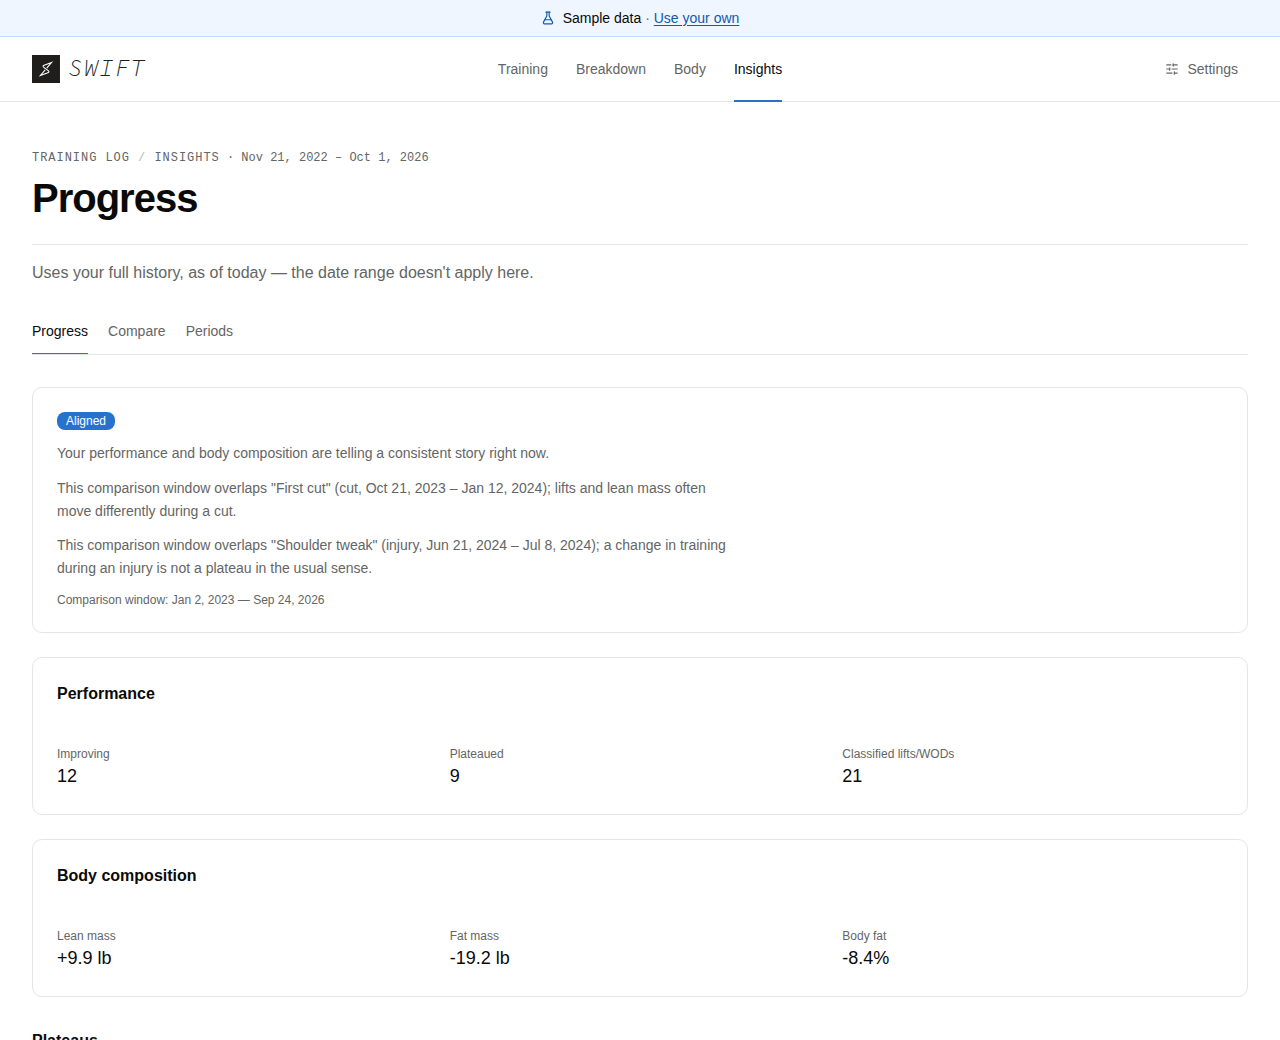
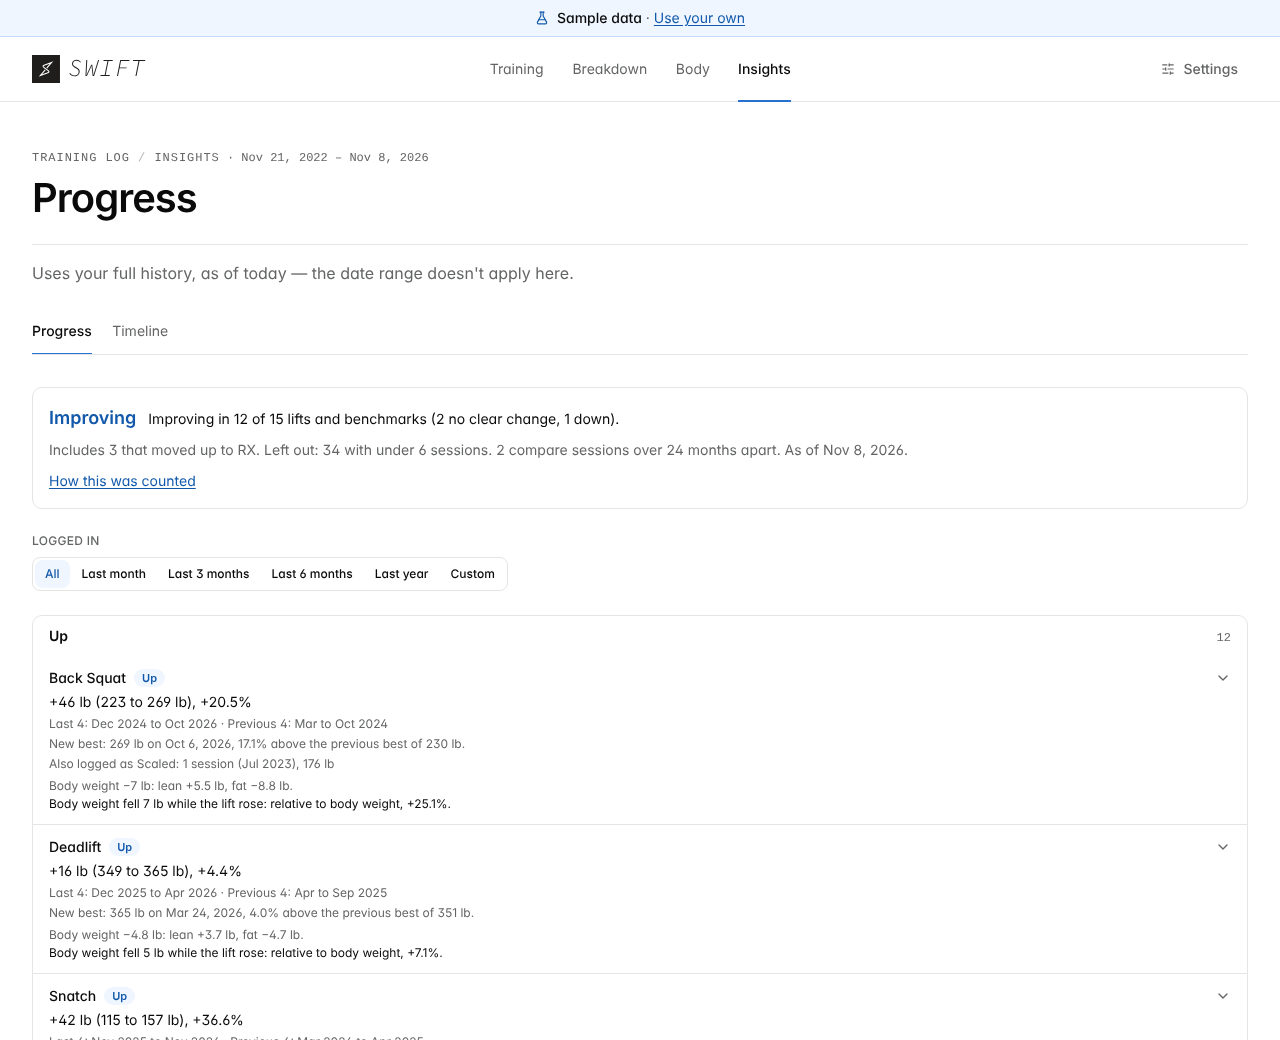
Remove dead code and stale wording left by the Insights overhaul
Fixes the Start over copy that still named periods and experiments, retakes the README Progress screenshots, and deletes code nothing calls any more: the unused table, skeleton and separator primitives, packLanes, bucketRange, NO_NOISE_BANDS, isMeaningfulChange, describeWithinNoise, formatPercent, formatSignedDelta and the BackupFile type, with their tests. Updates comments that still referred to the removed views.

Claude-Session: https://claude.ai/code/session_01QBi3wFwzQu6UaHexELoUPj

diff --git a/src/lib/analytics/bodyCompNoise.ts b/src/lib/analytics/bodyCompNoise.ts
@@ -217,44 +217,3 @@ export function getBodyCompNoiseBands(scans: InBodyRow[], options: NoiseBandOpti
   const entries = BODY_COMP_METRICS.map((m) => [m, getBodyCompNoiseBand(scans, m, options)] as const);
   return Object.fromEntries(entries) as BodyCompNoiseBands;
 }
-
-/** Bands of zero: every non-zero delta is meaningful. Reproduces the pre-noise-band sign-only behaviour exactly. */
-export const NO_NOISE_BANDS: BodyCompNoiseBands = Object.fromEntries(
-  BODY_COMP_METRICS.map((m) => [m, { status: "ok", band: 0, method: "default", sampleSize: 0 } satisfies BodyCompNoiseBand])
-) as BodyCompNoiseBands;
-
-/** A change is meaningful only when its magnitude exceeds the band. */
-export function isMeaningfulChange(delta: number, band: number): boolean {
-  return Math.abs(delta) > band;
-}
-
-const WITHIN_NOISE_LABEL = { leanMass: "lean mass", fatMass: "fat mass", bodyFatPct: "body fat" } as const;
-
-/**
- * The plain-language line for a trend whose changes sit inside the noise
- * band, or null when none do (including a trend computed without bands).
- * Says what is within normal variation and stops — it never names a direction
- * for a change it just said isn't one.
- */
-export function describeWithinNoise(trend: {
-  withinNoise?: { leanMass: boolean; fatMass: boolean; bodyFatPct: boolean };
-  leanMassDelta: number | null;
-  fatMassDelta: number | null;
-  bodyFatPctDelta: number | null;
-}): string | null {
-  const w = trend.withinNoise;
-  if (!w) return null;
-  const measured = [
-    ["leanMass", trend.leanMassDelta],
-    ["fatMass", trend.fatMassDelta],
-    ["bodyFatPct", trend.bodyFatPctDelta],
-  ] as const;
-  const present = measured.filter(([, delta]) => delta !== null).map(([k]) => k);
-  const within = present.filter((k) => w[k]);
-  if (within.length === 0) return null;
-  const names = within.map((k) => WITHIN_NOISE_LABEL[k]);
-  const list = names.length === 1 ? names[0]! : `${names.slice(0, -1).join(", ")} and ${names[names.length - 1]}`;
-  const verb = within.length === 1 ? "change is" : "changes are";
-  const cap = list.charAt(0).toUpperCase() + list.slice(1);
-  return `${cap} ${verb} within normal scan variation.`;
-}

diff --git a/src/lib/analytics/granularity.ts b/src/lib/analytics/granularity.ts
@@ -2,7 +2,7 @@ import dayjs, { type Dayjs } from "dayjs";
 import customParseFormat from "dayjs/plugin/customParseFormat";
 import type { DateRange } from "./dateRange";
 
-// bucketRange parses strictly; the plugin is otherwise only loaded by whichever module happens to import first.
+// Keeps strict parsing available whichever module happens to import first.
 dayjs.extend(customParseFormat);
 
 export type Granularity = "daily" | "weekly" | "monthly" | "quarterly" | "yearly";
@@ -67,47 +67,6 @@ export function bucketKey(date: Dayjs, granularity: Granularity): string {
     case "yearly":
       return date.format("YYYY");
   }
-}
-
-/**
- * The inclusive calendar span a bucket key covers, "YYYY-MM-DD" both ends —
- * the inverse of `bucketKey`. Lets a selection on a bucketed chart become a
- * date window. Null for a key that isn't one of this granularity's.
- */
-export function bucketRange(key: string, granularity: Granularity): { start: string; end: string } | null {
-  const fmt = "YYYY-MM-DD";
-  let start: Dayjs;
-  let unit: "day" | "week" | "month" | "year";
-  let months = 1;
-  switch (granularity) {
-    case "daily":
-      start = dayjs(key, fmt, true);
-      unit = "day";
-      break;
-    case "weekly":
-      start = dayjs(key, fmt, true);
-      unit = "week";
-      break;
-    case "monthly":
-      start = dayjs(`${key}-01`, fmt, true);
-      unit = "month";
-      break;
-    case "quarterly": {
-      const m = /^(\d{4})-Q([1-4])$/.exec(key);
-      if (!m) return null;
-      start = dayjs(`${m[1]}-${String((Number(m[2]) - 1) * 3 + 1).padStart(2, "0")}-01`, fmt, true);
-      unit = "month";
-      months = 3;
-      break;
-    }
-    case "yearly":
-      start = dayjs(`${key}-01-01`, fmt, true);
-      unit = "year";
-      break;
-  }
-  if (!start.isValid()) return null;
-  const end = unit === "month" ? start.add(months, "month").subtract(1, "day") : start.add(1, unit).subtract(1, "day");
-  return { start: start.format(fmt), end: end.format(fmt) };
 }
 
 /** Human-readable axis/tooltip label for a bucket key produced by `bucketKey`. */

diff --git a/tests/bodyCompNoise.test.ts b/tests/bodyCompNoise.test.ts
@@ -1,9 +1,7 @@
 import { describe, expect, it } from "vitest";
 import dayjs from "dayjs";
 import {
-  describeWithinNoise,
   getBodyCompNoiseBand,
-  isMeaningfulChange,
 } from "@/lib/analytics/bodyCompNoise";
 import { DEFAULT_NOISE_BAND, NOISE_BAND_FLOOR_FRACTION } from "@/lib/analytics/insightConfig";
 import type { InBodyRow } from "@/types/inbody";
@@ -153,36 +151,5 @@ describe("lean mass field choice", () => {
       NOISE_BAND_FLOOR_FRACTION * DEFAULT_NOISE_BAND.leanMass,
       5
     );
-  });
-});
-
-describe("isMeaningfulChange", () => {
-  it("requires the magnitude to exceed the band, in either direction", () => {
-    expect(isMeaningfulChange(2, 3)).toBe(false);
-    expect(isMeaningfulChange(-2, 3)).toBe(false);
-    expect(isMeaningfulChange(3, 3)).toBe(false);
-    expect(isMeaningfulChange(3.1, 3)).toBe(true);
-    expect(isMeaningfulChange(-3.1, 3)).toBe(true);
-  });
-});
-
-describe("describeWithinNoise", () => {
-  const base = { leanMassDelta: 1, fatMassDelta: -1, bodyFatPctDelta: 0.2 };
-  it("is null without bands or when nothing is within noise", () => {
-    expect(describeWithinNoise(base)).toBeNull();
-    expect(describeWithinNoise({ ...base, withinNoise: { leanMass: false, fatMass: false, bodyFatPct: false } })).toBeNull();
-  });
-  it("names what is within normal scan variation, plainly", () => {
-    expect(describeWithinNoise({ ...base, withinNoise: { leanMass: true, fatMass: false, bodyFatPct: false } })).toBe(
-      "Lean mass change is within normal scan variation."
-    );
-    expect(describeWithinNoise({ ...base, withinNoise: { leanMass: true, fatMass: true, bodyFatPct: true } })).toBe(
-      "Lean mass, fat mass and body fat changes are within normal scan variation."
-    );
-  });
-  it("ignores measurements with no delta", () => {
-    expect(
-      describeWithinNoise({ leanMassDelta: null, fatMassDelta: 1, bodyFatPctDelta: null, withinNoise: { leanMass: false, fatMass: true, bodyFatPct: false } })
-    ).toBe("Fat mass change is within normal scan variation.");
   });
 });

diff --git a/tests/granularity.test.ts b/tests/granularity.test.ts
@@ -2,7 +2,6 @@ import dayjs from "dayjs";
 import { describe, expect, it } from "vitest";
 import {
   bucketKey,
-  bucketRange,
   bucketTickInterval,
   dailyGranularityFits,
   formatBucketLabel,
@@ -113,31 +112,5 @@ describe("GRANULARITY_OPTIONS", () => {
       "quarterly",
       "yearly",
     ]);
-  });
-});
-
-describe("bucketRange", () => {
-  it("is the inverse of bucketKey for every granularity", () => {
-    const date = dayjs("2025-03-12", "YYYY-MM-DD");
-    for (const g of ["daily", "weekly", "monthly", "quarterly", "yearly"] as const) {
-      const range = bucketRange(bucketKey(date, g), g)!;
-      expect(range.start <= "2025-03-12" && "2025-03-12" <= range.end).toBe(true);
-      expect(bucketKey(dayjs(range.start), g)).toBe(bucketKey(date, g));
-      expect(bucketKey(dayjs(range.end), g)).toBe(bucketKey(date, g));
-    }
-  });
-
-  it("gives the whole calendar span of a bucket", () => {
-    expect(bucketRange("2025-03-12", "daily")).toEqual({ start: "2025-03-12", end: "2025-03-12" });
-    expect(bucketRange("2025-03-09", "weekly")).toEqual({ start: "2025-03-09", end: "2025-03-15" });
-    expect(bucketRange("2024-02", "monthly")).toEqual({ start: "2024-02-01", end: "2024-02-29" });
-    expect(bucketRange("2025-Q4", "quarterly")).toEqual({ start: "2025-10-01", end: "2025-12-31" });
-    expect(bucketRange("2025", "yearly")).toEqual({ start: "2025-01-01", end: "2025-12-31" });
-  });
-
-  it("returns null for a key of the wrong shape", () => {
-    expect(bucketRange("nope", "monthly")).toBeNull();
-    expect(bucketRange("2025-Q5", "quarterly")).toBeNull();
-    expect(bucketRange("2025-03", "daily")).toBeNull();
   });
 });

diff --git a/src/lib/sample/generateSampleBodyComp.ts b/src/lib/sample/generateSampleBodyComp.ts
@@ -11,8 +11,8 @@ import type { SugarWodRow } from "@/types/sugarwod";
  * disk, or based on a real person's body-composition history — see
  * `tests/fixtures/sampleInBodyRows.ts`'s own header comment for why no real
  * InBody export is bundled the way the SugarWOD one is. This exists so a
- * first-time visitor sees the Body Comp, Progress and Compare views
- * actually populated, not stuck on their empty states.
+ * first-time visitor sees Body Comp and the body-weight lines on Progress
+ * and the Timeline actually populated, not stuck on their empty states.
  *
  * Scans land roughly every two weeks (with jitter, so the cadence doesn't
  * look robotic) from shortly after the athlete's first logged workout
@@ -24,12 +24,8 @@ import type { SugarWodRow } from "@/types/sugarwod";
  *
  * The trend across the whole span is a deliberate three-phase story —
  * improve, then a mid-span plateau/regression, then improve again, ending
- * better than the start — rather than a straight line. A straight-line
- * improvement would mean `isBodyCompDeclining()` (see plateauDetector.ts)
- * is never true anywhere in the generated history, so the Plateau Detector
- * could only ever show `improving`/`plateaued_other`, never
- * `plateaued_body_comp`. The dip in the middle is what makes all three
- * plateau classifications reachable.
+ * better than the start — rather than a straight line, so the demo's body
+ * weight and composition rise, dip and recover the way a real history does.
  *
  * Fields are derived from each other rather than independently randomized
  * so the export reads as internally consistent: body fat mass is computed

diff --git a/src/lib/analytics/timeline.ts b/src/lib/analytics/timeline.ts
@@ -106,29 +106,6 @@ export function overlappingEntries(entry: TimelineEntry, all: readonly TimelineE
     .sort((a, b) => a.startDate.localeCompare(b.startDate) || a.id.localeCompare(b.id));
 }
 
-export interface PlacedEntry {
-  entry: TimelineEntry;
-  lane: number;
-}
-
-/**
- * Stacks entries into lanes so none overlaps another in its lane: each entry takes the first lane whose last entry ended
- * before this one starts. Earliest start first, so the result is stable and nothing computes "overlap" for the reader to
- * trust; the stacking shows it.
- */
-export function packLanes(entries: readonly TimelineEntry[], asOf: string): { placed: PlacedEntry[]; lanes: number } {
-  const sorted = [...entries].sort((a, b) => a.startDate.localeCompare(b.startDate) || a.id.localeCompare(b.id));
-  const laneEnds: string[] = [];
-  const placed: PlacedEntry[] = [];
-  for (const entry of sorted) {
-    let lane = laneEnds.findIndex((end) => end < entry.startDate);
-    if (lane === -1) lane = laneEnds.length;
-    laneEnds[lane] = entryEnd(entry, asOf);
-    placed.push({ entry, lane });
-  }
-  return { placed, lanes: laneEnds.length };
-}
-
 // ── Validation of a received list ───────────────────────────────────────
 
 export type EntryListResult = { status: "ok"; entries: TimelineEntry[] } | { status: "invalid"; reason: string };

diff --git a/src/components/dashboard/SettingsSheet.tsx b/src/components/dashboard/SettingsSheet.tsx
@@ -386,7 +386,7 @@ export function SettingsSheet(props: SettingsSheetProps) {
             <div className="flex items-center gap-4">
               <p className="grow text-[13px] leading-relaxed text-muted-foreground">
                 {upload
-                  ? "Deletes your workout log, body composition history, weigh-ins and periods, experiments included, from this browser."
+                  ? "Deletes your workout log, body composition history, weigh-ins and timeline entries from this browser."
                   : "Leaves the sample and goes back to the upload screen."}
               </p>
               {upload ? (
@@ -401,7 +401,7 @@ export function SettingsSheet(props: SettingsSheetProps) {
                       <AlertDialogTitle>Start over?</AlertDialogTitle>
                       <AlertDialogDescription>
                         This deletes your uploaded workout log, body composition history, weigh-ins, and any
-                        periods you've added, experiments included. This can't be undone.
+                        timeline entries you've added. This can't be undone.
                       </AlertDialogDescription>
                     </AlertDialogHeader>
                     <AlertDialogFooter>

diff --git a/tests/formatting.test.ts b/tests/formatting.test.ts
@@ -1,23 +1,8 @@
 import { describe, expect, it } from "vitest";
-import { formatSignedDelta } from "@/components/dashboard/charts/chartUtils";
-import { formatDay, formatPercent } from "@/lib/analytics/formatting";
-
-describe("formatSignedDelta", () => {
-  it("rounds to one decimal, adds an explicit plus, and says 'no data' for null", () => {
-    expect(formatSignedDelta(1.234, " lb")).toBe("+1.2 lb");
-    expect(formatSignedDelta(-0.44, "%")).toBe("-0.4%");
-    expect(formatSignedDelta(0, " lb")).toBe("0 lb");
-    expect(formatSignedDelta(null, " lb")).toBe("no data");
-  });
-});
+import { formatDay } from "@/lib/analytics/formatting";
 
 describe("insight sentence formatting", () => {
   it("formats a day the way the UI does", () => {
     expect(formatDay("2026-03-01")).toBe("Mar 1, 2026");
-  });
-  it("formats a fraction as an unsigned whole percent", () => {
-    expect(formatPercent(0.126)).toBe("13%");
-    expect(formatPercent(-0.126)).toBe("13%");
-    expect(formatPercent(0)).toBe("0%");
   });
 });

diff --git a/src/lib/analytics/scanParsing.ts b/src/lib/analytics/scanParsing.ts
@@ -5,8 +5,8 @@ dayjs.extend(customParseFormat);
 
 /**
  * Cell/timestamp parsing shared by every pipeline that reads raw rows.
- * Lives in its own file (re-exported by plateauDetector.ts, where these
- * started) so `bodyCompNoise.ts` can use them without a circular import.
+ * Lives in its own file so `bodyCompNoise.ts` can use them without a
+ * circular import.
  */
 
 export function parseWorkoutDate(dateStr: string): Dayjs {
@@ -24,7 +24,7 @@ export function parseNumericField(raw: string | undefined): number | null {
   return Number.isNaN(n) ? null : n;
 }
 
-/** A strict "YYYY-MM-DD" calendar day — the shape every user-authored date (tags, experiments) is stored in. */
+/** A strict "YYYY-MM-DD" calendar day — the shape every user-authored date (timeline entries, weigh-ins) is stored in. */
 export function isIsoDay(value: unknown): value is string {
   return typeof value === "string" && /^\d{4}-\d{2}-\d{2}$/.test(value) && dayjs(value, "YYYY-MM-DD", true).isValid();
 }

diff --git a/tests/timeline.test.ts b/tests/timeline.test.ts
@@ -8,7 +8,6 @@ import {
   entrySpanText,
   inputFromEntry,
   overlappingEntries,
-  packLanes,
   validateEntryInput,
   validateEntryList,
   type EntryInput,
@@ -93,14 +92,6 @@ describe("names, spans and overlap", () => {
     expect(overlappingEntries(c, [a, b, c], TODAY).map((e) => e.id)).toEqual(["b"]);
   });
 
-  it("stacks overlapping entries into separate lanes and reuses a lane once it is free", () => {
-    const a = entry({ id: "a", startDate: "2026-01-01", endDate: "2026-03-01" });
-    const b = entry({ id: "b", startDate: "2026-02-01", endDate: "2026-04-01" });
-    const c = entry({ id: "c", startDate: "2026-03-02", endDate: "2026-05-01" });
-    const { placed, lanes } = packLanes([c, b, a], TODAY);
-    expect(placed.map((p) => [p.entry.id, p.lane])).toEqual([["a", 0], ["b", 1], ["c", 0]]);
-    expect(lanes).toBe(2);
-  });
 });
 
 describe("a list that arrives (validateEntryList)", () => {

diff --git a/src/components/dashboard/charts/chartUtils.ts b/src/components/dashboard/charts/chartUtils.ts
@@ -12,13 +12,6 @@ export function formatDate(iso: string): string {
   return date.toLocaleDateString("en-US", { day: "numeric", month: "short", year: "numeric" });
 }
 
-/** "+1.2 lb" / "-0.4%" / "no data". One decimal, explicit plus, for a body-composition delta. */
-export function formatSignedDelta(delta: number | null, unit: string): string {
-  if (delta === null) return "no data";
-  const rounded = Math.round(delta * 10) / 10;
-  return `${rounded > 0 ? "+" : ""}${rounded}${unit}`;
-}
-
 /** "25-03-14" (the workout-list format) -> "14 Mar 2025" */
 export function formatShortDate(yyMmDd: string): string {
   const [yy, mm, dd] = yyMmDd.split("-");

diff --git a/src/App.tsx b/src/App.tsx
@@ -351,8 +351,7 @@ export default function App() {
   }, []);
 
   // Sync's timeline handler, alongside the others: an unconditional writer, gated by SyncDialog.
-  // Periods and experiments from an older device are read as entries before this runs. Entries always
-  // persist for the same reason handleSyncedBodyCompData does — synced data is never sample data.
+  // Entries always persist for the same reason handleSyncedBodyCompData does — synced data is never sample data.
   const handleSyncedTimeline = useCallback((incoming: TimelineEntry[]) => {
     setTimeline(incoming);
     void saveTimeline(incoming);
